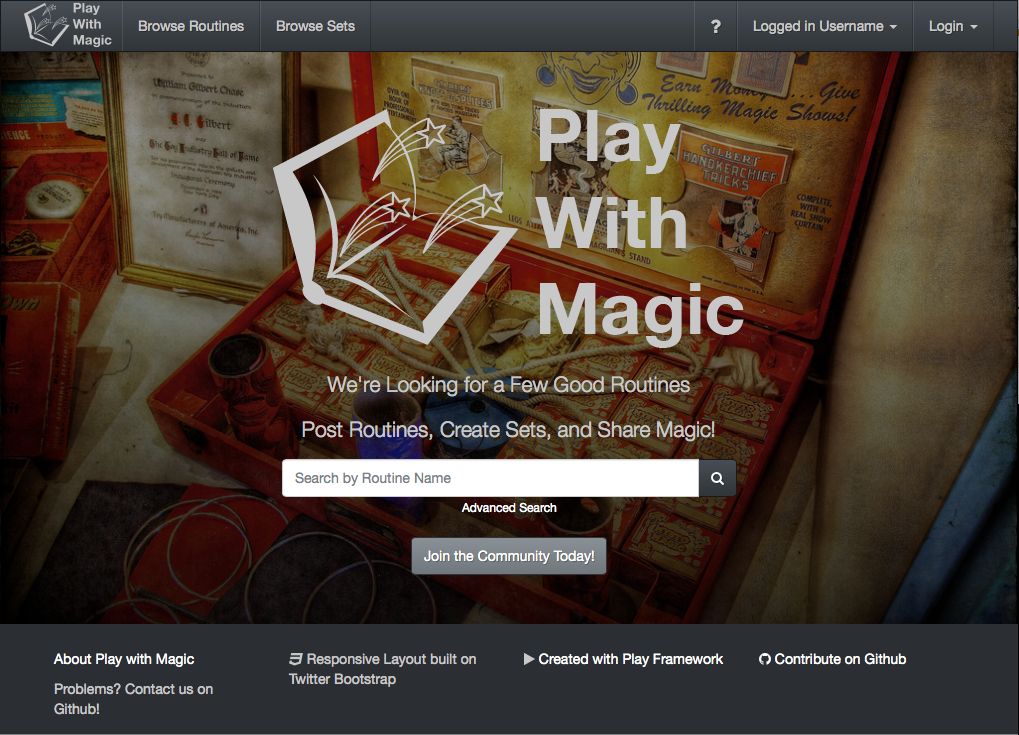
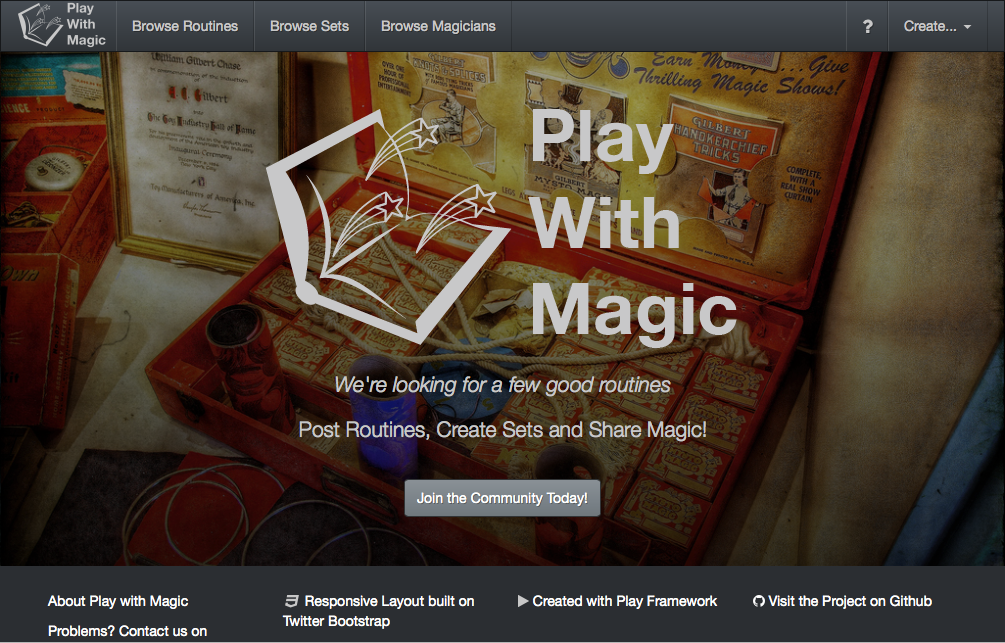
#139 Fixed up Readme.md
…and updated the homepage image.

diff --git a/README.md b/README.md
@@ -4,58 +4,39 @@ PlayWithMagic.org
 [PlayWithMagic.org](http://www.playwithmagic.org) is a web application that catalogs magic tricks and helps magicians 
 build shows.
 
-
-
-PlayWithMagic is a web-based application that catalogs magic tricks and helps magicians build shows.
+![alt text](https://github.com/PlayWithMagic/PlayWithMagic/raw/master/doc/images/Desktop_home.png "Logo Title Text 1")
 
 Want to know more about PlayWithMagic?
   * [Go to PlayWithMagic now](http://playwithmagic.org)
   * [The PlayWithMagic Project site](http://playwithmagic.github.io/PlayWithMagic.org/) 
-  * [The PlayWithMagic GitHub home](https://github.com/PlayWithMagic/PlayWithMagic.org) 
-  * [For those who are interested, here's the original prototype](http://mark.nelson.engineer/PlayWithMagic/mockup/)
   
-|               | The Home Page | Routines  |
-| ------------- |:-------------:| :--------:|
-| Desktop       | ![alt text](https://github.com/PlayWithMagic/PlayWithMagic/raw/master/doc/images/Desktop_home.png "Logo Title Text 1") | ![alt text](https://github.com/PlayWithMagic/PlayWithMagic/raw/master/doc/images/Desktop_routines.png "") |
-| Mobile        | ![alt text](https://github.com/PlayWithMagic/PlayWithMagic/raw/master/doc/images/Mobile_home.PNG "Logo Title Text 1")      |   ![alt text](https://github.com/PlayWithMagic/PlayWithMagic/raw/master/doc/images/Mobile_routines.PNG "") |
-
-
-
-
-
 Overview
 --------
 
   * [Responsive Layout built on Twitter Bootstrap](http://getbootstrap.com)
-  * [Built with Java on the Play Framework](href="http://playframework.com)
+  * [Built with Java on the Play Framework](http://playframework.com)
   * [Hosted by Heroku](http://heroku.com)
   * [Makes CSS easier with the LESS transpiler](http://lesscss.org/)
+  * [If you're interested, here's the original prototype](http://mark.nelson.engineer/PlayWithMagic/mockup/)
 
-This application uses an in-memory database to catalog Routines and Sets for magicians.  For more information visit the
-[project home page](http://playwithmagic.github.io/PlayWithMagic.org/).
-
-You can also visit the application at [http://www.playwithmagic.org/](http://www.playwithmagic.org).
+This application uses an in-memory database to catalog Routines and Sets for magicians.  
 
 The First Few Things You Should Know as a Project Developer
 -----------------------------------------------------------
   * We make extensive use of GitHub's Issue tracker.
-  * The application uses a Model-
+  * The application uses a Model-View-Controller paradigm.
+  * The application revolves around three entities:  Magicians, Routines and Sets.
+  * If you want to add a new field, checkout this [tutorial on adding new fields](https://github.com/PlayWithMagic/PlayWithMagic.org/wiki/Developer-Guide:-Add-a-Field).
 
+Contributing to PlayWithMagic
+=============================
 
+###Documentation
+A great place to start is our [Project Wiki](https://github.com/PlayWithMagic/PlayWithMagic.org/wiki).  You'll find
+information on setting up your development environment, use cases, programming conventions and major design decisions.
 
-Documentation
--------------
-
-Documentation for Developers and Users is available on our [Project Wiki](https://github.com/PlayWithMagic/PlayWithMagic.org/wiki).
-
-
-Support
--------
-
+###Support
 Have a question?  Found a bug?  Please open an Issue on our [GitHub Issues](https://github.com/PlayWithMagic/PlayWithMagic.org/issues) page.
 
-
-License
--------
-
+###License
 This project is licensed under the [Apache 2.0 License](https://github.com/PlayWithMagic/PlayWithMagic.org/blob/master/LICENSE).
